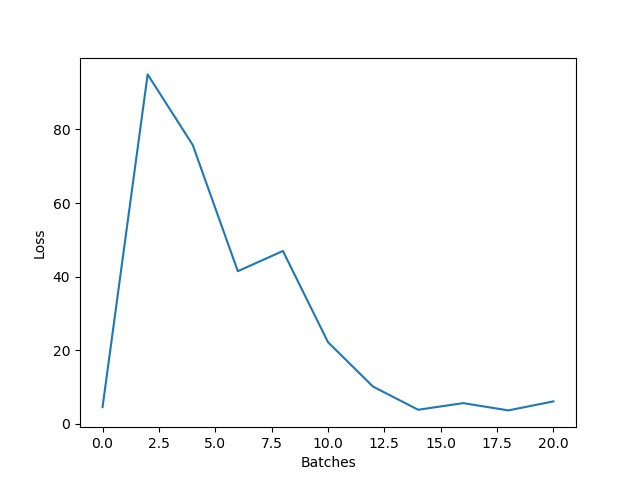
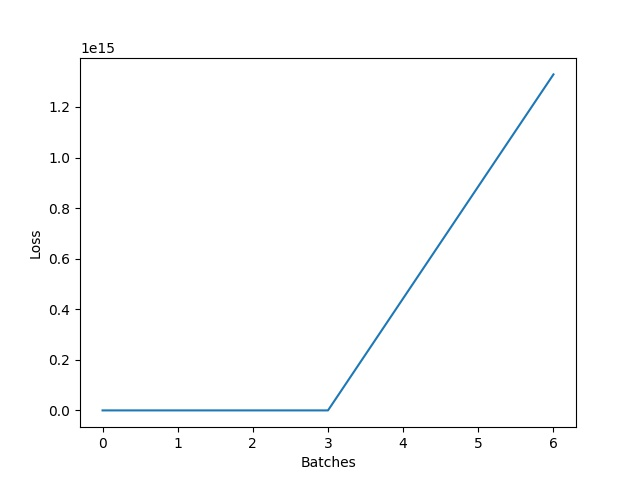
roar with vgg11 and saved saliency maps

diff --git a/remove_and_retrain.py b/remove_and_retrain.py
@@ -9,7 +9,7 @@ from datetime import datetime
 import argparse
 from saliency.fullgrad import FullGrad
 from saliency.simple_fullgrad import SimpleFullGrad
-from models.vgg import vgg16_bn, vgg9
+from models.vgg import vgg16_bn, vgg11
 from models.resnet import resnet18
 from misc_functions import create_folder, compute_and_store_saliency_maps, remove_salient_pixels
 import copy
@@ -22,19 +22,22 @@ data_PATH= PATH + 'dataset/'
 torch.backends.cudnn.deterministic = True
 torch.backends.cudnn.benchmark = False
 
-def train(data_loader, model, use_saliency=False, \
-          k_most_salient=0, saliency_method=None, saliency_method_name=None):
+def train(data_loader, model, k_most_salient=0, saliency_path=""):
     learning_rate = ARGS.initial_learning_rate
     criterion = torch.nn.CrossEntropyLoss() 
     optimizer = torch.optim.RMSprop(model.parameters(), lr=learning_rate)
+    
     accuracies = []
     losses = []
     for step, (batch_inputs, batch_targets) in enumerate(data_loader):
-        batch_inputs, batch_targets = batch_inputs.to(ARGS.device), batch_targets.to(ARGS.device)
-        if use_saliency:
-            batch_inputs = batch_inputs.detach()
-            saliency_map = saliency_method.saliency(batch_inputs)
-            data = remove_salient_pixels(batch_inputs, saliency_map, num_pixels=k_most_salient, most_salient=ARGS.most_salient)
+        batch_inputs, batch_targets = batch_inputs.to(ARGS.device), \
+                                      batch_targets.to(ARGS.device)
+        if k_most_salient != 0:
+             if use_saliency:
+                saliency_map = torch.load(os.path.join(train_saliency_path, \
+                    "saliency_map_" + str(step)))
+                data = remove_salient_pixels(batch_inputs, saliency_map, \
+                    num_pixels=k_most_salient, most_salient=ARGS.most_salient)
         else:
             data = batch_inputs
         
@@ -72,16 +75,45 @@ def train(data_loader, model, use_saliency=False, \
     plt.plot(range(0, ARGS.batch_size * len(losses), ARGS.batch_size), losses)
     plt.ylabel('Loss')
     plt.xlabel('Batches')
-    if use_saliency:
+    if k_most_salient != 0:
         figname = saliency_method_name + "_" + str(k_most_salient) + ".jpeg"
     else:
         figname = "initial_model.jpeg"
     plt.savefig(os.path.join("results", "remove_and_retrain", figname))
-    return accuracies[-1]
 
-def remove_and_retrain(data_loader):
-    initial_model = vgg9().to(ARGS.device)
-    initial_accuracy = train(data_loader, initial_model, use_saliency=False)
+
+def test(data_loader, model, k_most_salient=0, saliency_path=""):
+    loss = 0.0
+    accuracy = 0.0
+    criterion = torch.nn.CrossEntropyLoss()
+    for step, (batch_inputs, batch_targets) in enumerate(data_loader):
+        batch_inputs, batch_targets = batch_inputs.to(ARGS.device), \
+                                      batch_targets.to(ARGS.device)
+        if k_most_salient != 0:
+             if use_saliency:
+                saliency_map = torch.load(os.path.join(saliency_path, \
+                    "saliency_map_" + str(step)))
+                data = remove_salient_pixels(batch_inputs, saliency_map, \
+                    num_pixels=k_most_salient, most_salient=ARGS.most_salient)
+        else:
+            data = batch_inputs
+        data.requires_grad = True
+        data = data.to(ARGS.device)
+        batch_targets = batch_targets.to(ARGS.device)
+        
+        output = model.forward(data)
+        loss += criterion(output, batch_targets)
+        accuracy += float(sum(batch_targets == torch.argmax(output, 1))) / float(ARGS.batch_size)
+    # TODO check if correct
+    num_batches = len(dataloader.dataset)
+    return loss / num_batches, accuracy / num_batches
+
+
+def remove_and_retrain(train_set_loader, test_set_loader):
+    initial_model = vgg11(pretrained=True).to(ARGS.device)
+    train(train_set_loader, initial_model)
+    accuracy = test(test_set_loader, initial_model)
+    
     saliency_methods = []
     print(next(initial_model.parameters()).device)
     for grad_name in ARGS.grads:
@@ -90,17 +122,28 @@ def remove_and_retrain(data_loader):
         elif grad_name == "simplegrad":
             saliency_methods += [(SimpleFullGrad(initial_model), "SimpleFullGrad")]
         # TODO add gradcam
+
     total_features = 224 * 224
     accuracies = torch.zeros((len(saliency_methods), len(ARGS.k)))
     for method_idx, (saliency_method, method_name) in enumerate(saliency_methods):
+        train_saliency_path = os.path.join(data_PATH, "saliency_maps", method_name + "_vgg11")
+        compute_and_store_saliency_maps(train_set_loader, initial_model, \
+            ARGS.device, ARGS.max_train_steps, saliency_method, train_saliency_path)
+
+        test_saliency_path = os.path.join(data_PATH, "saliency_maps", method_name + "_vgg11")
+        compute_and_store_saliency_maps(test_set_loader, initial_model, \
+            ARGS.device, ARGS.max_train_steps, saliency_method, test_saliency_path)
+
         for k_idx, k in enumerate(ARGS.k):
             print("Run saliency method: ", method_name)
 
-            model = vgg9().to(ARGS.device)
-            accuracy = train(data_loader, model, use_saliency=True, \
-                             k_most_salient=int(k * total_features), \
-                             saliency_method=saliency_method, \
-                             saliency_method_name=method_name)
+            model = vgg11(pretrained=True).to(ARGS.device)
+            train(train_set_loader, model, \
+                  k_most_salient=int(k * total_features), \
+                  saliency_path=train_saliency_path)
+            accuracy = test(test_set_loader, model, \
+                            k_most_salient=int(k * total_features), \
+                            saliency_path=test_saliency_path)
             accuracies[method_idx, k_idx] = accuracy
         plt.figure(0)
         plt.plot([k * 100 for k in ARGS.k], list(accuracies[method_idx]), label=method_name + str(k))
@@ -119,11 +162,14 @@ def main():
         transforms.Normalize(mean=[0.485, 0.456, 0.406],
                              std=[0.229, 0.224, 0.225]), ])
     dataset = data_PATH + "/cifar/"
-    data = datasets.CIFAR100(dataset, train=True, transform=transform_standard, \
+    train_set = datasets.CIFAR100(dataset, train=True, transform=transform_standard, \
         target_transform=None, download=True)
-    data_loader = torch.utils.data.DataLoader(data, batch_size=ARGS.batch_size, shuffle=False)
+    test_set = datasets.CIFAR100(dataset, train=False, transform=transform_standard, \
+        target_transform=None, download=True)
+    train_set_loader = torch.utils.data.DataLoader(train_set, batch_size=ARGS.batch_size, shuffle=False)
+    test_set_loader = torch.utils.data.DataLoader(test_set, batch_size=ARGS.batch_size, shuffle=False)
 
-    remove_and_retrain(data_loader)
+    remove_and_retrain(train_set_loader, test_set_loader)
 
 
 if __name__ == "__main__":

diff --git a/models/vgg.py b/models/vgg.py
@@ -17,7 +17,6 @@ import torch.nn as nn
 import torch.utils.model_zoo as model_zoo
 
 cfg = {
-    '9': [64, 'M', 128, 'M', 256, 'M', 256, 'M', 512, 512, 'M'], 
     'A': [64, 'M', 128, 'M', 256, 256, 'M', 512, 512, 'M', 512, 512, 'M'],
     'B': [64, 64, 'M', 128, 128, 'M', 256, 256, 'M', 512, 512, 'M', 512, 512, 'M'],
     'D': [64, 64, 'M', 128, 128, 'M', 256, 256, 256, 'M', 512, 512, 512, 'M', 512, 512, 512, 'M'],
@@ -169,13 +168,6 @@ class VGG(nn.Module):
                     layers += [conv2d, nn.ReLU(inplace=False)]
                 in_channels = v
         return nn.ModuleList(layers)
-
-
-def vgg9(**kwargs):
-    """VGG 9-layer model
-    """
-    model = VGG('A', **kwargs)
-    return model
 
 
 def vgg11(pretrained=False, **kwargs):
